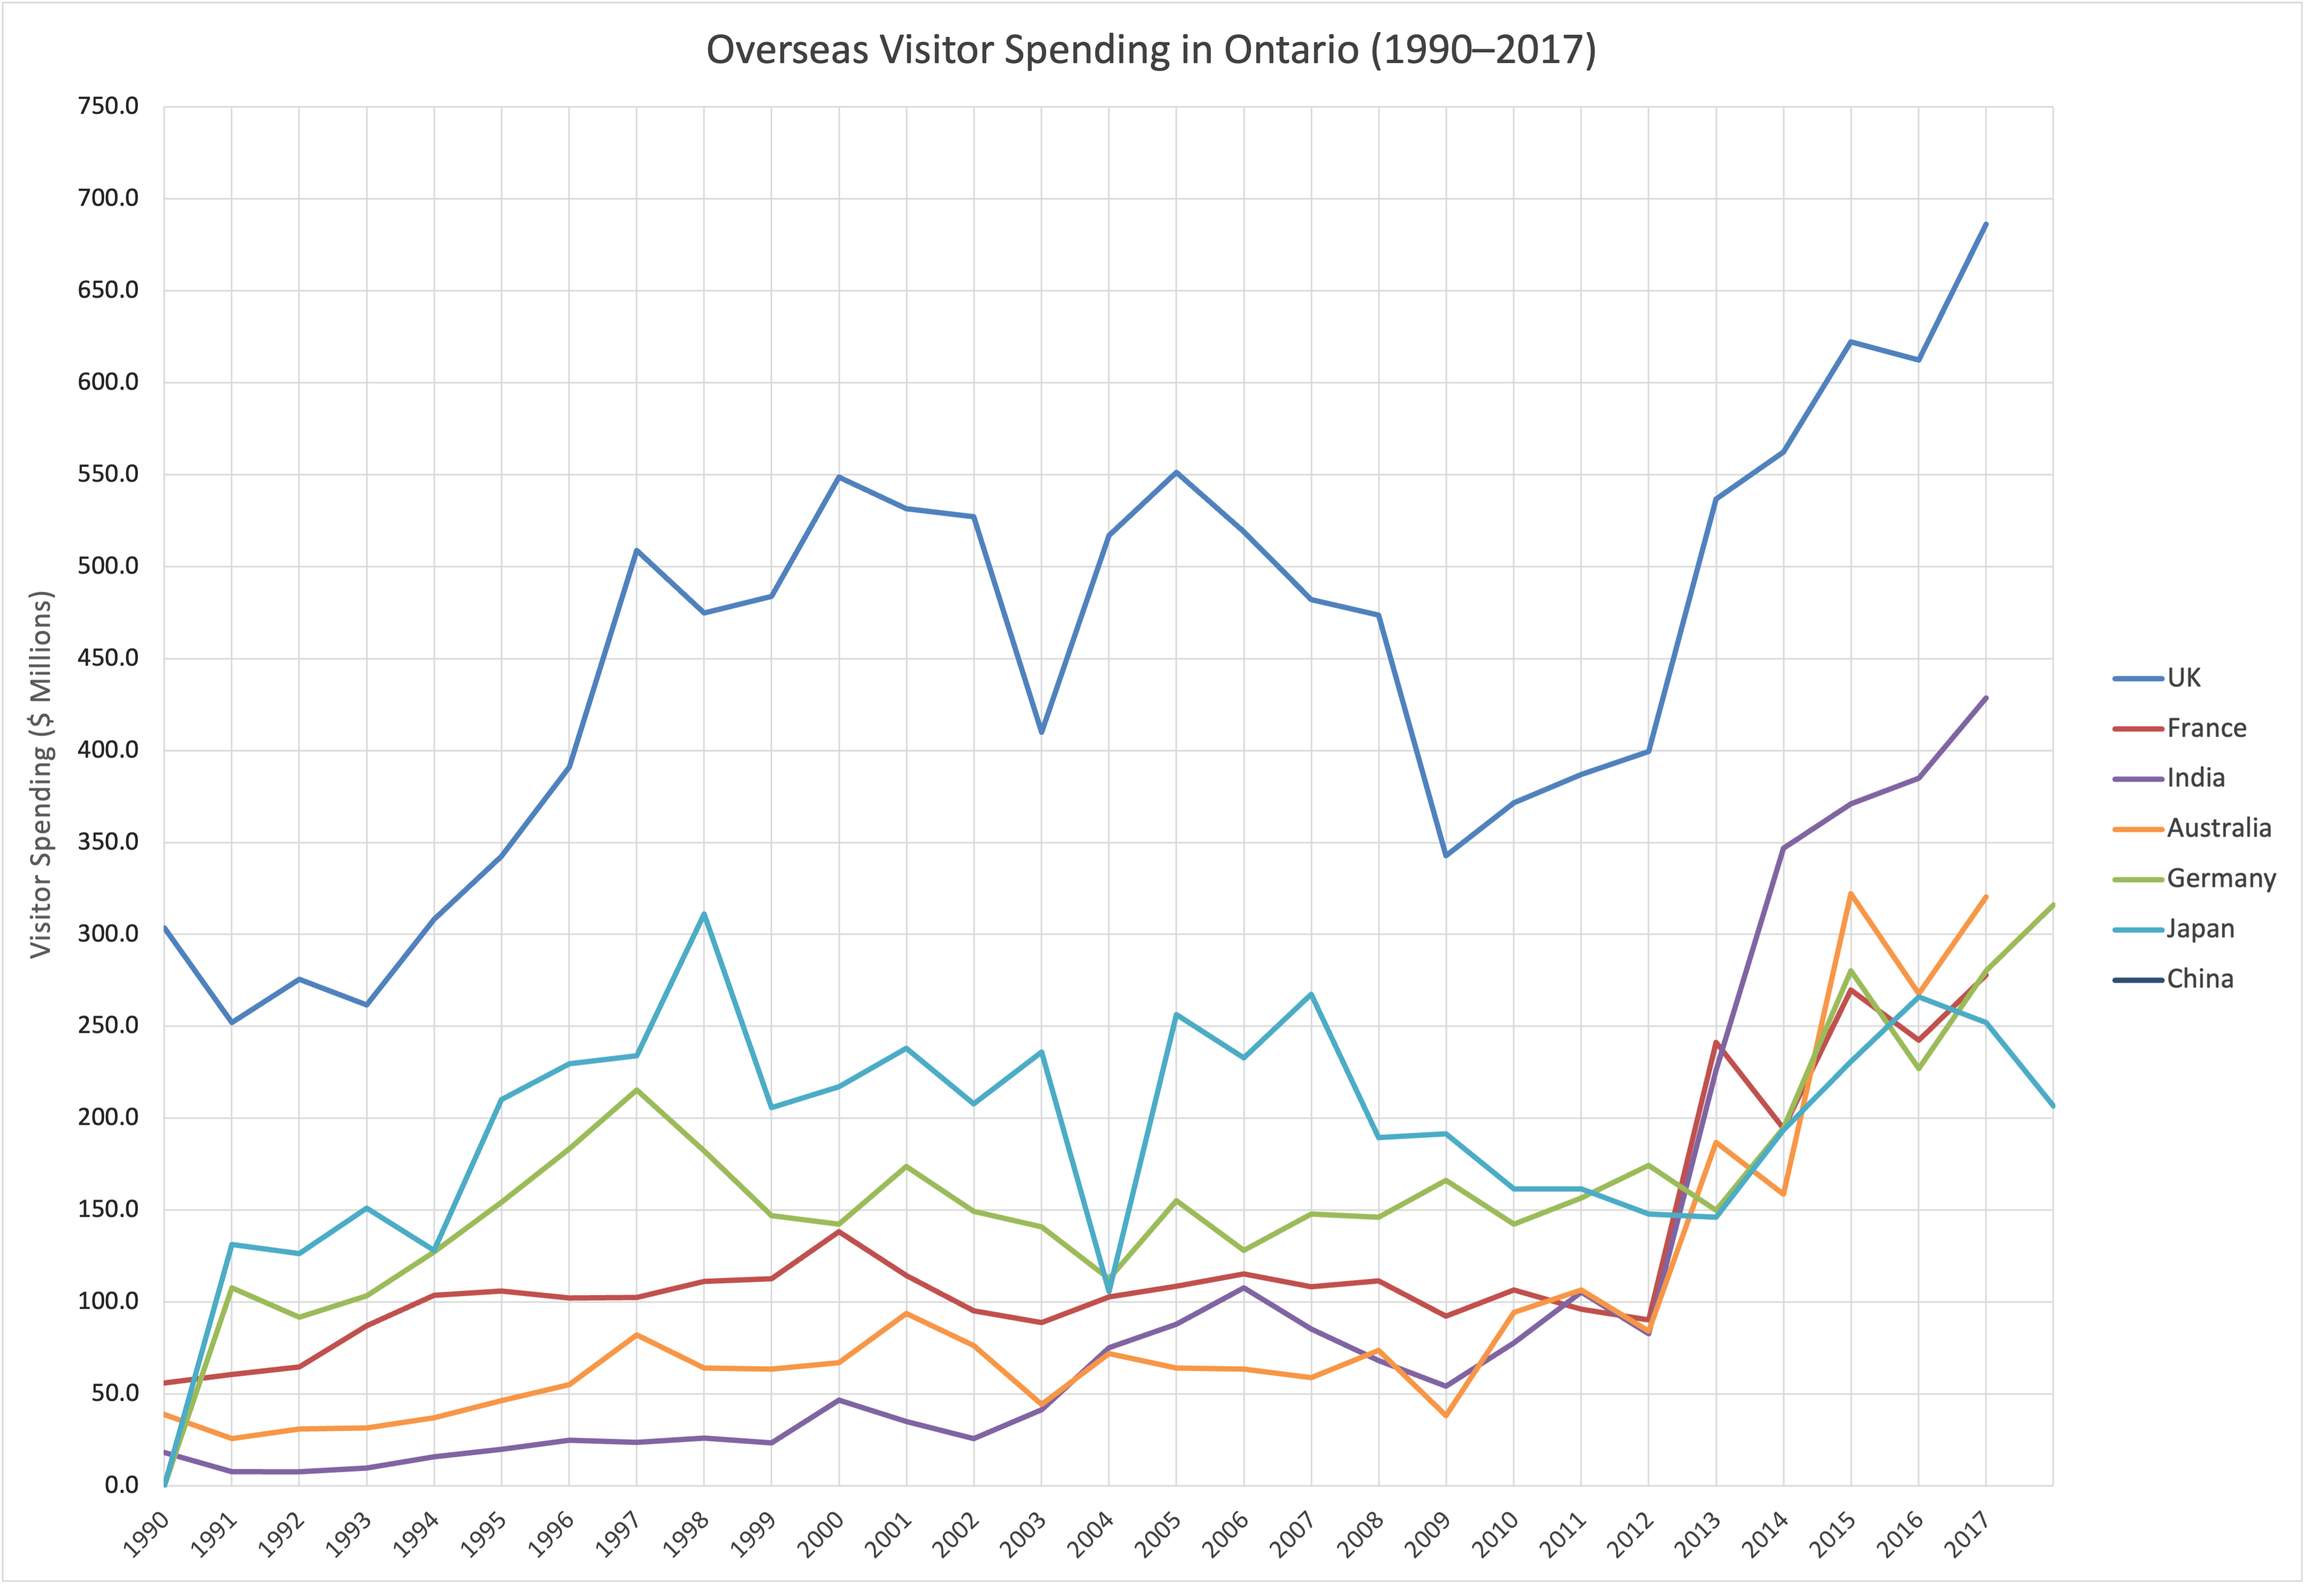
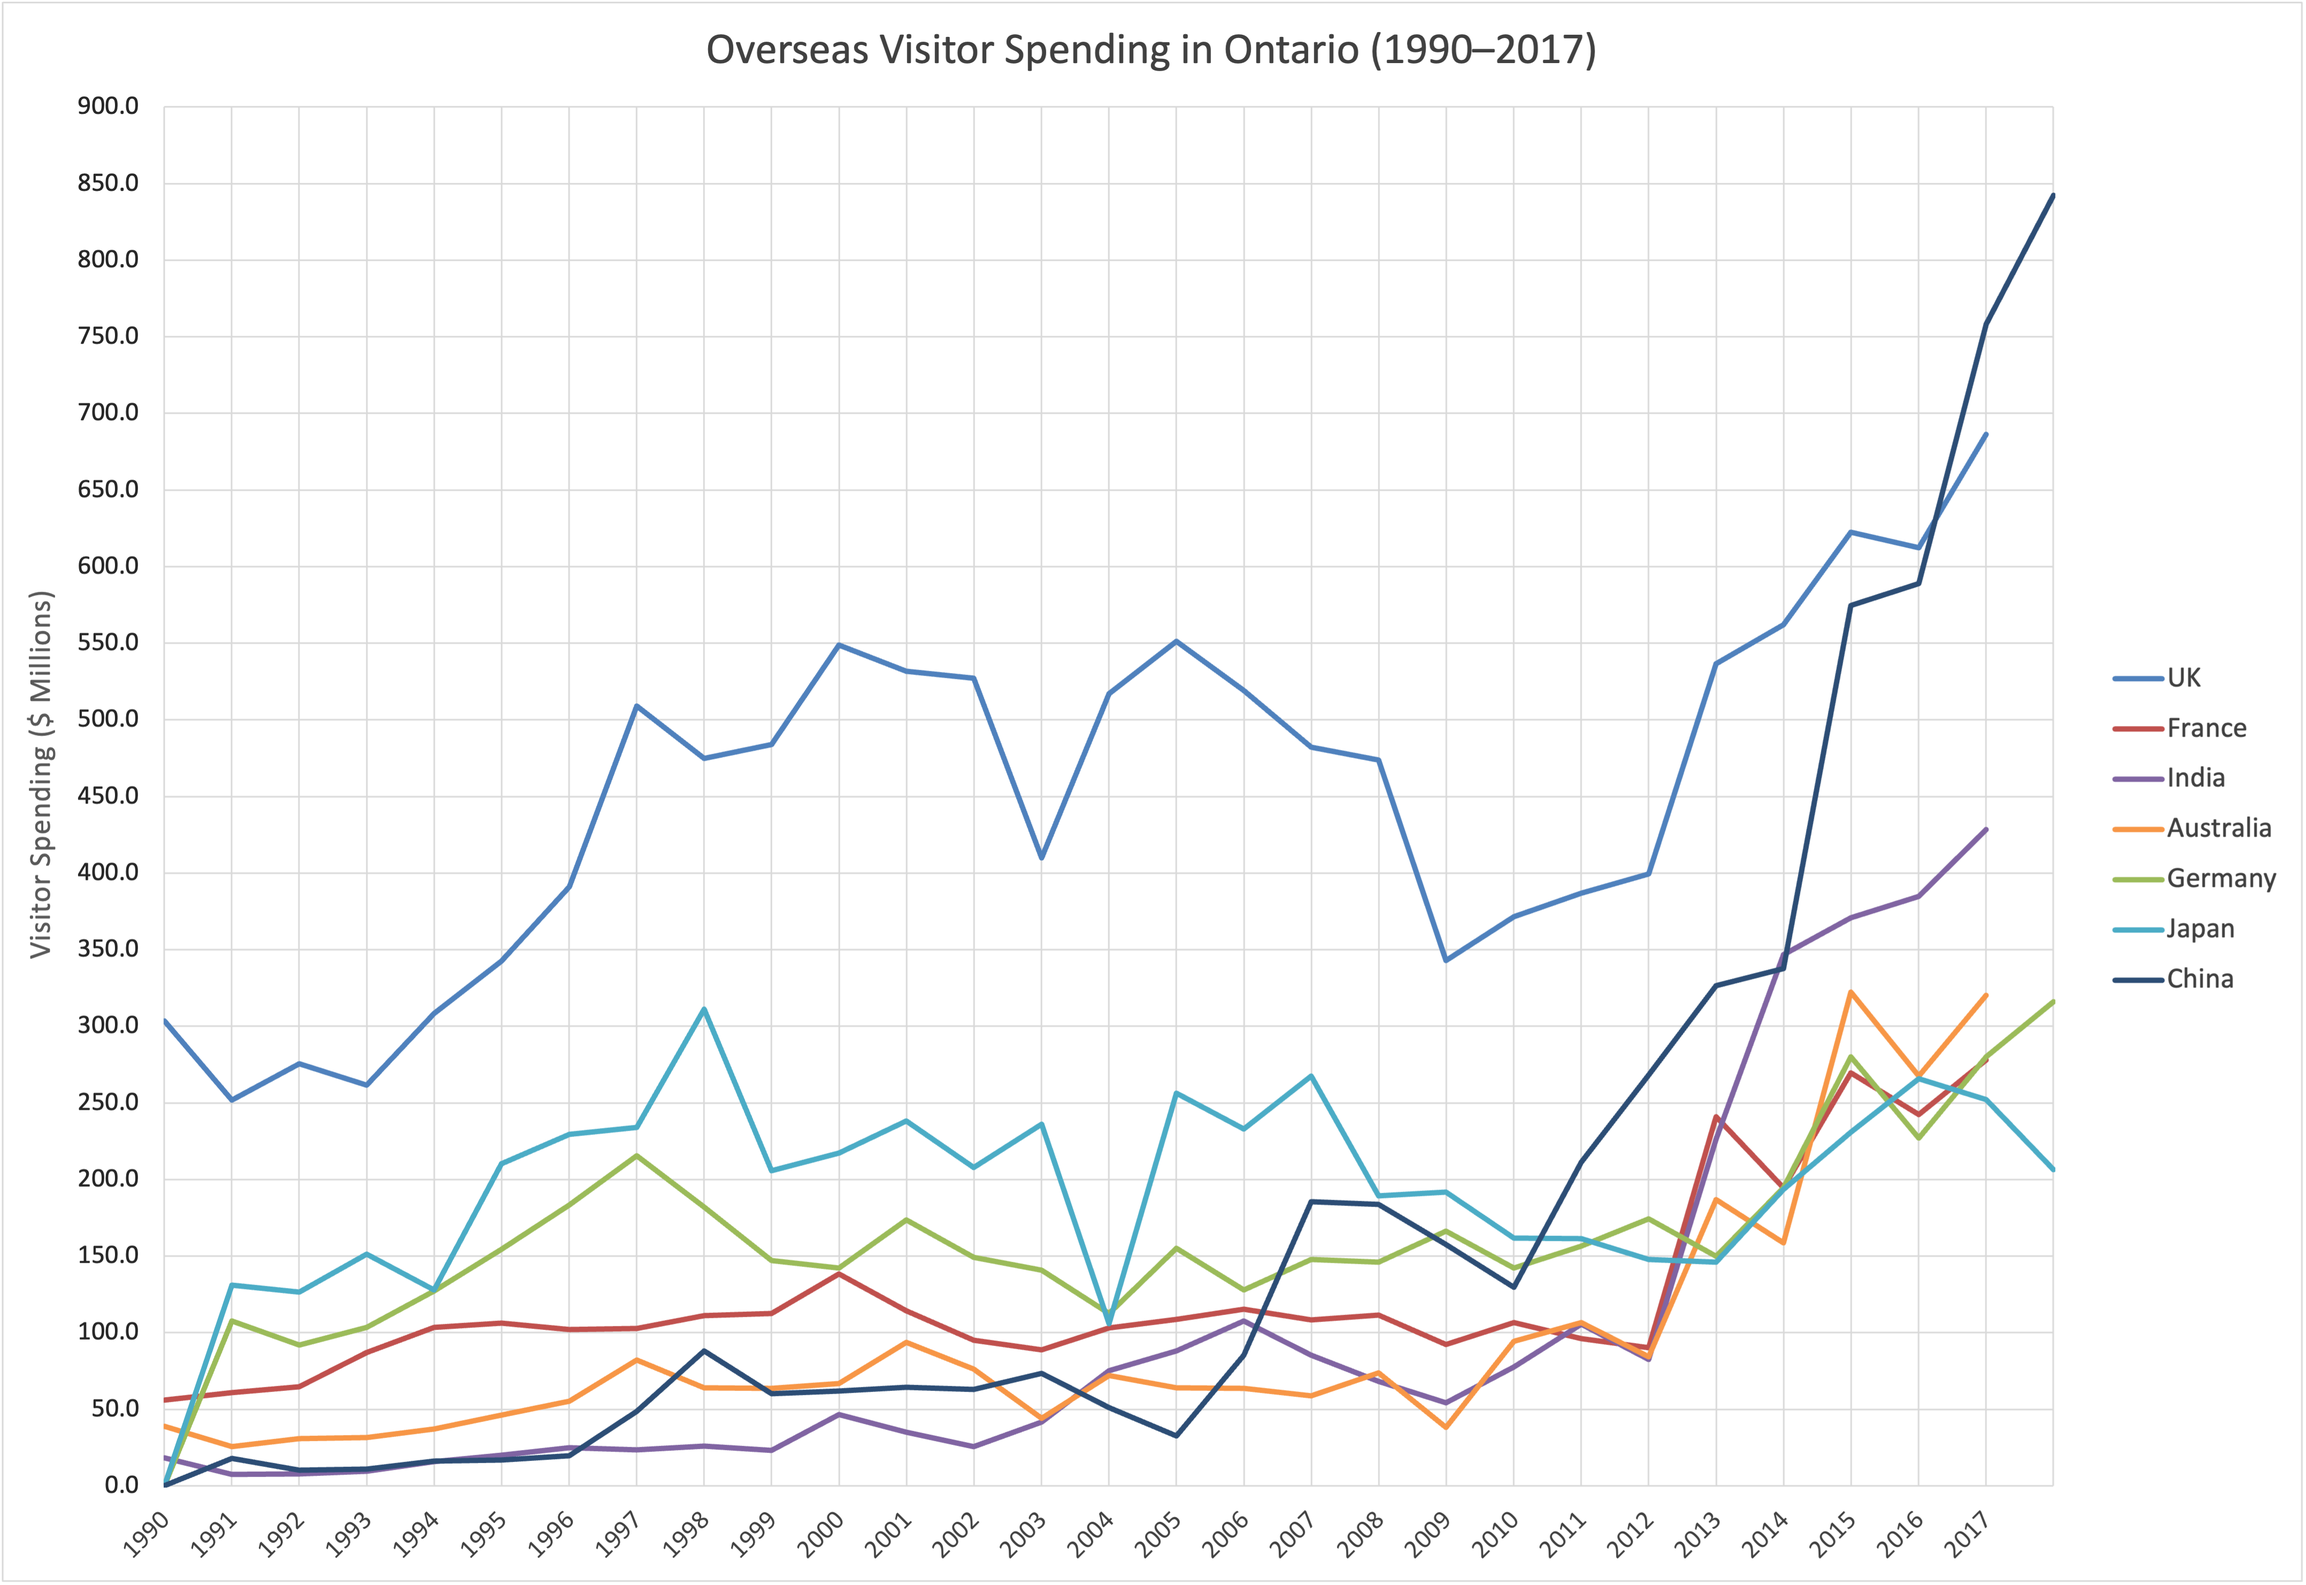
completed responses for assignment 3

diff --git a/02_activities/assignments/assignment_3_files/Visualization_2_Written_Response.md b/02_activities/assignments/assignment_3_files/Visualization_2_Written_Response.md
@@ -1,6 +1,48 @@
 # Visualization 2 Written Response
 
-
+This visualization, titled "Overseas Visitor Spending in Ontario (1990-2017)" was created using the "Overnight Spending by Overnight Ovserseas Visitors" dataset on the Government of Ontario's Open Data Catalogue. The dataset provides information on the spending of visitors to Ontario from 1990-2022, organized by country of origin.
 
 Dataset Used: Spending by overnight overseas visitors
 https://data.ontario.ca/dataset/overnight-visitor-spending-by-country/resource/d8d10af6-ef9e-4412-94a6-7f87333edac2
+
+### Software Used
+I used Microsoft Excel to plot this chart. The dataset was already in .xlsx format, and since I only have elementary understanding of Excel, I relied heavily on the built in tools and easily navigated user interface to process and select data, as well as to modify elements of the design.
+
+### Intended Audience
+The intended audience is the general public who might be interested in tourism trends in the province over time. Policy makers and tourism authorities who are interested in evaluating the composition of visitors to the province may also be interested. This chart can help them understand the economic contributions made by different international markets.
+
+### Information and Message Conveyed
+This visualization shows the long terms trends in spending within this Ontario by major international visitor countries. It highlights the major effects of global recessions on tourism spending and although the European market has continued to lead in tourist spending within the province, the visualization reveals the increasing dominance of emerging markets like China and India. The visitor spending of China, in particular, has outpaced the UK and shows rapid increase.
+
+### Aspects of Design Considered
+For the sake of clarity, readability,and comparabiity, I focused on avoiding overcrowding the graph, and opted to select a limited number of major markets. This selection also focuses on comparabilty, as I have avoided selecting countries from only one area of the world, but have attempted to strike a balance between European and Asia-Pacific visitor markets.
+
+### Reproducibility
+The visualization was created using Microsoft Excel with an .xlsx dataset. It is highly reproducible since the same dataset can be downloaded, and excel tools can be used to filter and select data from different countries and years. The scope of my visualization has been clearly articulated by the ticks on the axes (1990–2017), and the selected countries have also been clearly identified by the legend. It is relatively easy to use Excel's standard charting tools to chart the data.
+
+On the other hand, as I understand it, over the years, Microsoft has updated their in-built chart designs, and there is no guarantee that the current design chosen is an option that will continue to be offered in the coming years for anyone attempting to replicate the work I have done. 
+
+Furthermore, the size of the chart and the font sizes of the titles and axes were manually adjusted based on what I thought looked clear. This information is less easy to replicate, and while the facts in the graph do not change, meaning that attempts to reproduce the graph will at least approximate my visualization, it may be difficult to achieve the exact dimensions and exact placements of the axes and title. 
+
+Ultimately, however, I believe that the visualization is reproducible enough, given that the numbers are easily identifiable and selected in the dataset.
+
+### Accessibility
+I prioritized clear labels, readable font sizes, and a simple layout that reduces cognitive load. Limiting the number of countries included helps reduce visual clutter, making it easier for viewers to distinguish between different lines in the graph.
+
+However, accessibility is largely dependent on Excel’s default options for visualization design. I have attempted to alter individual colors to increase contrast between lines and I have darkened the axes font color to improve their visibility as well, and overall, the design aims to be understandable for a general audience, even though the colors are not optimized for those suffering from color-based vision impediments.
+
+### Individuals and Communities Impacted
+This visualization is closely connected to the interests of the tourism industry, hospitality industries and local small businesses, whose profit is greatly impacted by traveler spending.
+
+This chart might influence businesses and policy makers when make decisions about marketing their business and decisions about the province's infrastructure such as transit options which will need to meet the needs of visitors who come to Ontario. Furthermore, the tourism industry might choose to target their advertisements towards countries whose tourists spending is trending upward.
+
+### Features Included or Excluded
+The dataset notes that methodology for calculating the data changed in 2018, and that the covid outbreak (2020-2022) further constituted a disruption to tourism that was not representattive of actual trends. As such, numbers from 2020-2022 were excluded. Since the numbers from 2018 onward are not comparable to the numbers from years before, and that the years of the covid outbreak included no measured data, I have opted to exclude the years after 2018 from this visualization. This decision was made to improve comparability and to ensure an accurate representation of trends on tourist spending. I believe that the numbers from 2018 onwards are still important. However, given the changes in methodology, they warrant their own visualization, separate from this one.
+
+I would have liked to account for the rate of inflation as a touchpoint for understanding the 'true' increase of spending among visitors to Ontario. Adjusting/Accounting for inflation would have helped provide a more accurate understanding of how much spending truly increased.
+
+Furthermore, this information was not included in the dataset, but I imagine that it could be easily sourced by consulting other datasets. I would have liked to include a breakdown of which cities were most popular among these visitors, instead of simply thinking about Ontario as a whole.
+
+### Underwater Labor
+The designers and IT professionals working for Microsoft did a lot of work in providing the base design and creating the codebase for the built-in tools that enabled my easy plotting of the chart. Furthermore, the dataset that I used to create the visualization also went through much data cleaning and processing before reaching me in its published form online.
+
